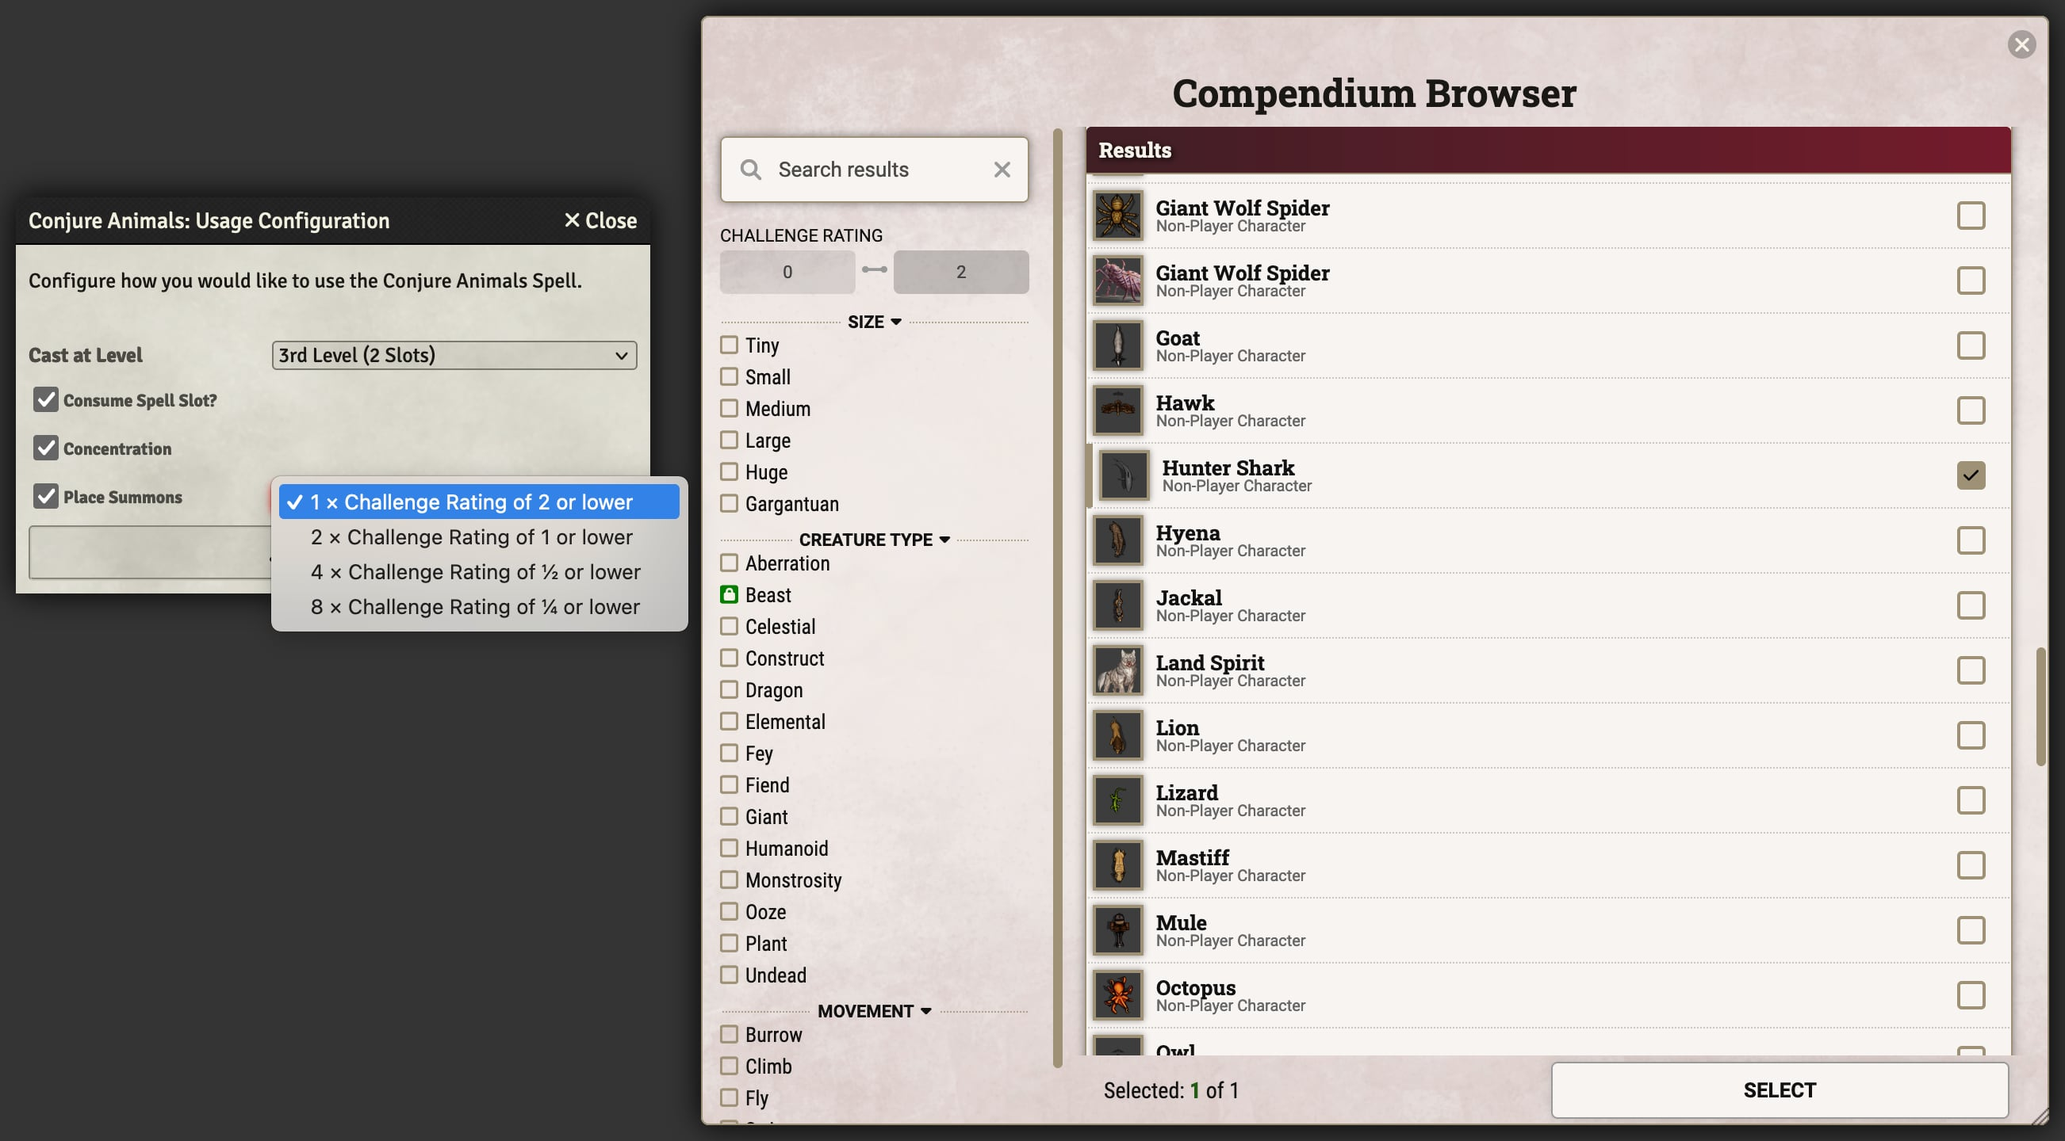
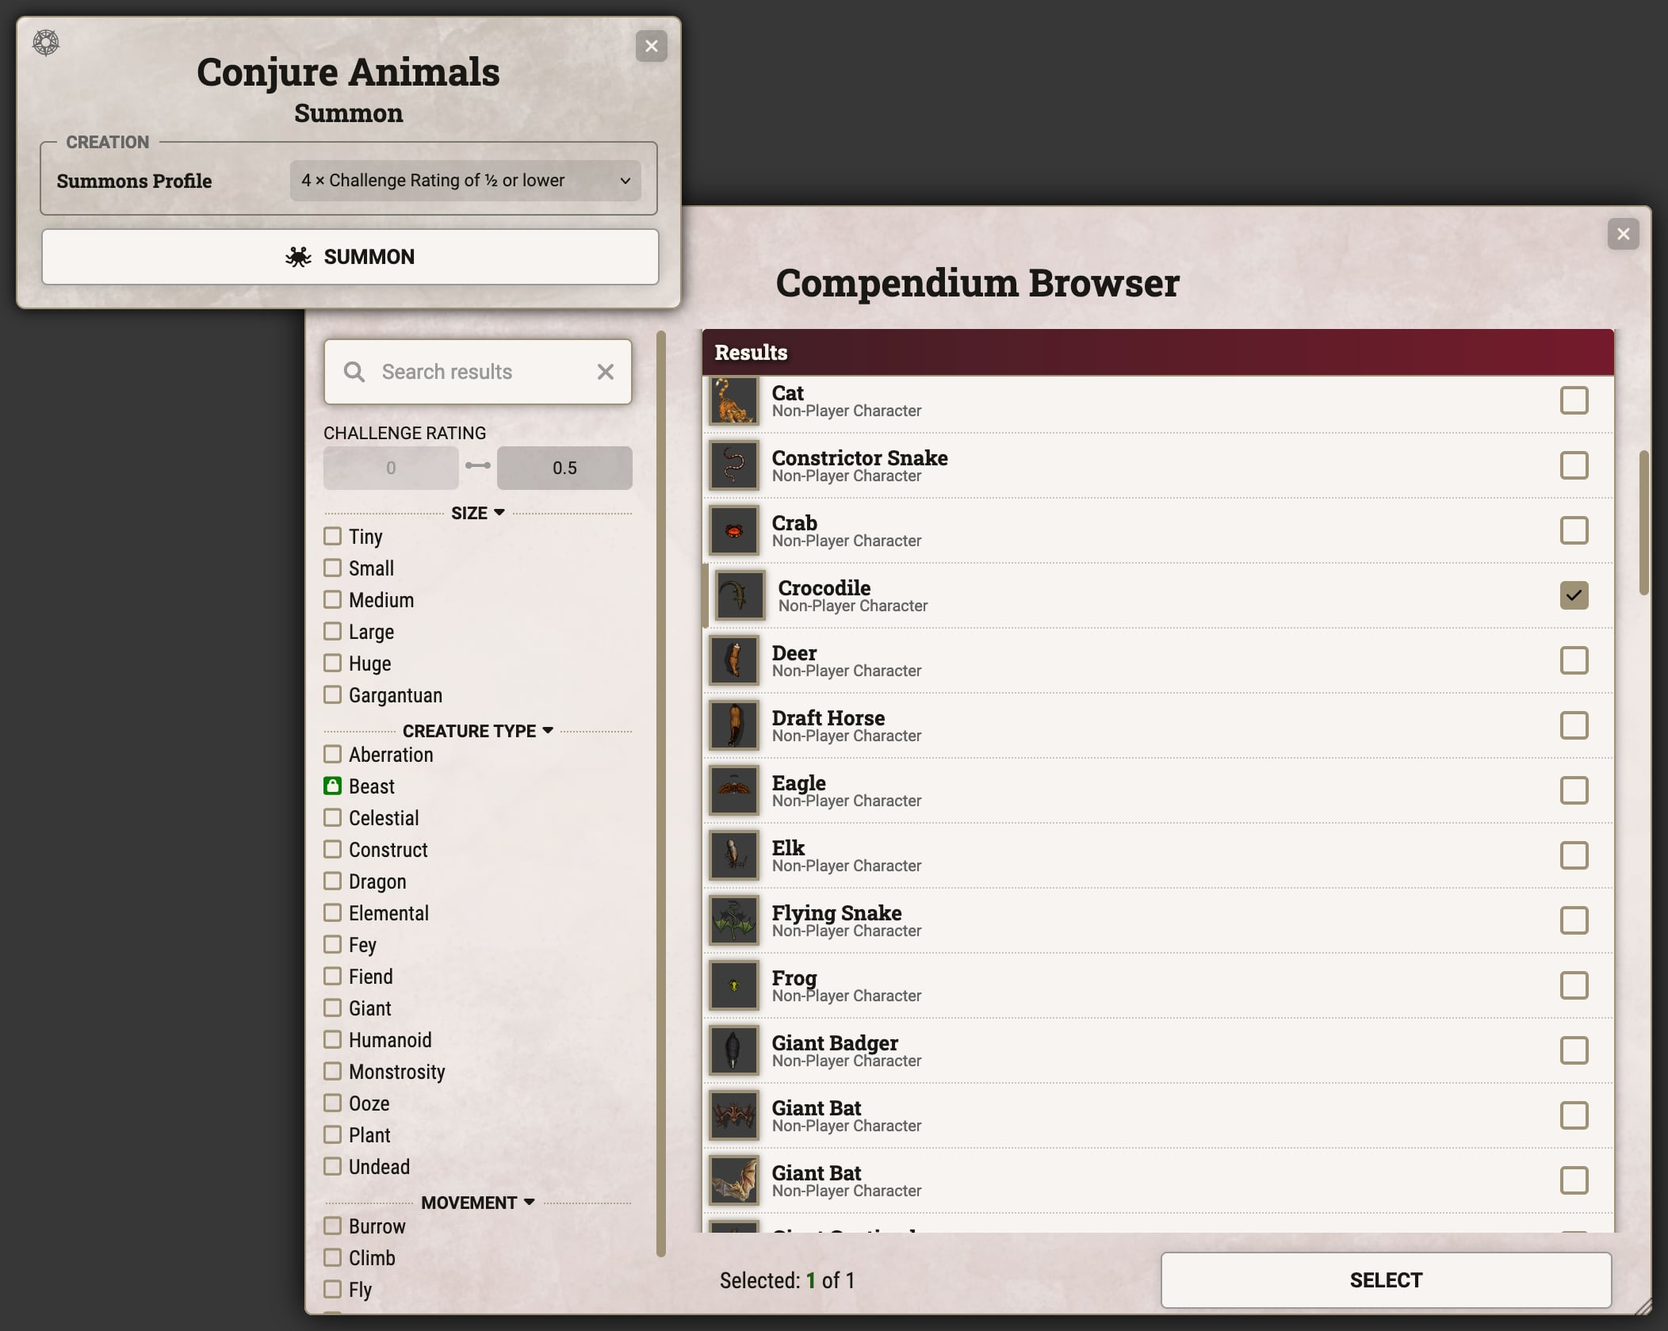
Document Summon Activity for the wiki

diff --git a/wiki/Activity-Type-Summon.md b/wiki/Activity-Type-Summon.md
@@ -1,0 +1,103 @@
+![Up to date as of 4.0.0](https://img.shields.io/static/v1?label=dnd5e&message=4.0.0&color=informational)
+
+The Summon activity is designed to automatically bring summoned creatures into your world. This allows for summoning based on a pre-determined list of creatures or allowing the player to select a creature to summon based on CR and creature type. This activity can modify the summoned creatures before they are brought into the world and includes an interface for players to place them as desired in the scene.
+
+![Summoning Summary](https://raw.githubusercontent.com/foundryvtt/dnd5e/publish-wiki/wiki/images/summoning/summoning-summary.jpg)
+
+
+## Permissions
+
+While GMs can always take advantage of summoning, this feature requires certain permissions to be set in order for it to be used by players. First the system setting "Allow Summoning" must be enabled:
+
+![Summoning Permission](https://raw.githubusercontent.com/foundryvtt/dnd5e/publish-wiki/wiki/images/summoning/summoning-permission.jpg)
+
+Then a few core Foundry permissions may need to be changed depending on how users will be using the feature.
+
+- *Create New Tokens* (**required**): Players must always have permission to create new tokens for summoning to work.
+- *Create New Actors*: Permission to create new actors must be set if summoning spells are configured to pull actors from compendiums. In order to use summoning without this then the GM can import actors and adjust the spells to pull from world actors rather than compendium actors. The player doing the summoning must have ownership permission on the world actor they are summoning.
+- *Use File Browser*: If the token being summoned uses wildcard artwork, then players must have access to the file browser so the system can correctly set the artwork.
+
+
+## Configuring Summoning
+
+After creating the Summon activity on an item the sheet will open on the Identity tab. In addition to the standard activity identity options (see the [Activities Overview](Activities.md) for more details), Summon also includes a *Summon Prompt* option. If this is unchecked, then the usage dialog will not attempt to summon by default, but summoning can always be performed from the chat card after the initial usage.
+
+![Summoning Sheet - Identity Tab](https://raw.githubusercontent.com/foundryvtt/dnd5e/publish-wiki/wiki/images/summoning/summoning-identity.jpg)
+
+### Summoning Profiles
+
+Moving over to the Summoning tab reveals the core details of the Summon activity. The Profiles sub-tab contains the configuration for the creatures that will be summoned. It begins with "Mode", which determines whether a specific set of creatures can be summoned using the **"By Direct Link"** option, or whether the player can choose the creatures using the **"By Challenge Rating and Type"** option.
+
+![Summoning Sheet - Profiles Tab, Empty](https://raw.githubusercontent.com/foundryvtt/dnd5e/publish-wiki/wiki/images/summoning/summoning-profiles-empty.jpg)
+
+Each profile can have a *Count* for how many of that profile will be summoned. This count can take formulas based on the summoning item’s roll data, allowing the count to scale based on the level at which the summoning occurs.
+
+Profiles also have a *Display Name* which affects how that profile will be displayed in the summoning dialog. Changing this name will not modify the summoned creature’s name, only how it displays in the usage prompt.
+
+#### By Direct Link
+
+In **Direct Link** mode it is easy to add creatures by dragging and dropping them from the world or a compendium only the sheet. Dropping it directly onto an existing profile will associated that creature with that profile and dropping elsewhere will create a new profile for that creature.
+
+![Summoning Sheet - Profiles Tab, Direct Link](https://raw.githubusercontent.com/foundryvtt/dnd5e/publish-wiki/wiki/images/summoning/summoning-profiles-direct-link.jpg)
+
+In the example above, the spell "Summon Beast" from *Tasha’s Cauldron of Everything*, there are three profiles created to match with the three variants of Bestial Spirit that can be created: Air, Land, and Water. Custom labels have been added to make the usage window more legible to players.
+
+#### By Challenge Rating and Type
+
+In **Challenge Rating & Type** mode the profile contains a *CR* field for setting the maximum CR of creature that can be summoned for that profile. Beneath the "Additional Settings" dropdown is the *Creature Types* field which allows for setting one or more creature types to allow for selection.
+
+![Summoning Sheet - Profiles Tab, Challenge Rating & Type](https://raw.githubusercontent.com/foundryvtt/dnd5e/publish-wiki/wiki/images/summoning/summoning-profiles-challenge-rating.jpg)
+
+In the first example above, the spell "Conjure Animals" from the Player’s Handbook, there are four profiles with descending CRs and increasing quantities (the complex formula in the count field allows for the count to double at certain spell levels). The *Display Name* field is left blank allowing the summoning to automatically generate the appropriate label.
+
+The second example shows the spell "Conjure Element", also from the Player’s Handbook. This only has a single summoning profile with a CR that scales based on the spell level (starting at CR 5 because it is a 5th level spell, and increasing CR by 1 for each level cast above 5th). The dropdown shows that that spell can only summon creatures with the "Elemental" type.
+
+#### Summoning Level
+
+When summoning occurs the process always has an associated level. For spells, this is always based on the level at which the spell is cast, but for Summon activities on other items it varies depending on whether the *Class Identifier* is populated. If provided, then the summoning level will be based on the character’s level in that specific class, otherwise it will use the character’s overall level.
+
+![Summoning Sheet - Profiles Tab, Level Limits](https://raw.githubusercontent.com/foundryvtt/dnd5e/publish-wiki/wiki/images/summoning/summoning-profiles-level-limits.jpg)
+
+This summoning level can be used to restrict certain profiles to only certain levels using the *Level Limits* fields in the "Additional Settings" dropdown. In the above example, the "Create Undead" spell from the Player’s Handbook, the level limit is set for the various undead creatures allowing only Ghouls to be summoned at 6th level, but allowing Ghasts and Wights at 8th level and Mummies at 9th level.
+
+### Changes
+
+The next tab defines changes to the creature and its items when summoned. Any fields that accept formulas will be resolved at time of summoning using `@` references from the item performing the summoning (allowing the use of `@item.level` or `@scaling` to adjust details based on the level cast) with details of the summoned creature available using `@summon` (so `@summon.attributes.hd` will give access to the HD size of a summoned NPC).
+
+![Summoning Sheet - Changes Tab](https://raw.githubusercontent.com/foundryvtt/dnd5e/publish-wiki/wiki/images/summoning/summoning-changes.jpg)
+
+#### Creature Changes
+
+The "Creature Changes" section defines changes to the creature itself:
+- *Match Proficiency*: Changes the summoned creature’s proficiency to match that of the summoner
+- *Bonus Armor Class*: Bonus to the armor class on top of what is specified in the stat block
+- *Bonus Hit Dice*: Number of hit dice to add to those on the summoned creature, based on the hit dice details inferred from the HP formula or creature size
+- *Bonus Hit Points*: Additional hit points on top of those specified in the stat block
+- *Creature Sizes* & *Creature Types*: Change the summoned creature’s size and type when summoning. If more than one option is selected, then the player will be able to choose in the summoning dialog
+
+The example above shows the "Summon Beast" spell from *Tasha’s Cauldron of Everything* which matches the caster’s proficiency, gives a bonus to armor class based on spell level, and an extra 5 hit points for each level cast above the base level.
+
+#### Item Changes
+
+the "Item Changes" section defines changes make to the items (features, attacks, and other items) on the creature:
+- *Match Attacks*: The To Hit on Attack activities will match that of the summoner
+- *Match Saves*: The Save DC on Save activities will match that of the summoner
+- *Bonus Attack Damage*, *Bonus Save Damage*, *Bonus Healing*: Additional damage when using the Attack or Save activities or additional healing when using the Heal activity
+
+In the example above the *Match Attacks* checkbox is checked to ensure the attacks rolls match that of the caster, and the *Bonus Attack Damage* contains `@item.level` giving a bonus of the spell’s level to attack damage rolls. The other fields are left unchanged because the summoned creature doesn’t have any of those.
+
+## Performing Summoning
+
+Once configuration is complete, summoning is very easy. Simply use the feature or spell as you would normally and the summoning options will appear in the usage prompt.
+
+![Summoning Prompt](https://raw.githubusercontent.com/foundryvtt/dnd5e/publish-wiki/wiki/images/summoning/summoning-prompt.jpg)
+
+The *Place Summons* checkbox controls whether a summoned creature will be placed automatically and if there is more than one summoning profile the *Summons Profile* dropdown will allow player to select what type to summon. After this screen the player's sheet will be minimized and they will be able to place the summon in the current scene.
+
+![Summoning Prompt - Compendium Browser](https://raw.githubusercontent.com/foundryvtt/dnd5e/publish-wiki/wiki/images/summoning/summoning-cr-prompt.jpg)
+
+When summoning in *Challenge Rating & Type* mode, the compendium browser will be brought up after the profile is selected allowing the player to choose which specific creature they wish to summon.
+
+![Summoning Chat Message](https://raw.githubusercontent.com/foundryvtt/dnd5e/publish-wiki/wiki/images/summoning/summoning-chat-message.jpg)
+
+If the summoned creature needs to be placed again, or the initial prompt was skipped, a "Summon" button will appear in the chat card.

diff --git a/wiki/Summoning.md b/wiki/Summoning.md
@@ -1,80 +1,1 @@
-![Up to date as of 3.3.0](https://img.shields.io/static/v1?label=dnd5e&message=3.2.0&color=informational)
-
-The D&D system includes a system for automatically bringing summoned creatures into your world. This allows you to reference a list of creatures to be summoned from a feature or spell, modify the actors before they are brought into the world, and place them where you wish in the scene.
-
-![Summoning Summary](https://raw.githubusercontent.com/foundryvtt/dnd5e/publish-wiki/wiki/images/summoning/summoning-summary.jpg)
-
-## Permissions
-
-While GMs can always take advantage of summoning, this feature requires certain permissions to be set in order for it to be used by players. First the system setting "Allow Summoning" must be enabled:
-
-![Summoning Permission](https://raw.githubusercontent.com/foundryvtt/dnd5e/publish-wiki/wiki/images/summoning/summoning-permission.jpg)
-
-Then a few core Foundry permissions may need to be changed depending on how users will be using the feature.
-
-- *Create New Tokens* (**required**): Players must always have permission to create new tokens for summoning to work.
-- *Create New Actors*: Permission to create new actors must be set if summoning spells are configured to pull actors from compendiums. In order to use summoning without this then the GM can import actors and adjust the spells to pull from world actors rather than compendium actors. The player doing the summoning must have ownership permission on the world actor they are summoning.
-- *Use File Browser*: If the token being summoned uses wildcard artwork, then players must have access to the file browser so the system can correctly set the artwork.
-
-## Configuring Summoning
-
-To set up a feature or spell to perform summoning, it first must have the "Action Type" of "Summon". This is configured on the details tab of the item beneath the header "Spell Effects" or "Feature Attack", depending on item type. Once that is selected a new summoning line will appear below. The "Configure Summons" button will allow for further configuration and the "Summon Prompt" checkbox will allow players to bypass the activation prompt when using the feature.
-
-![Item Details Tab](https://raw.githubusercontent.com/foundryvtt/dnd5e/publish-wiki/wiki/images/summoning/summoning-item-details.jpg)
-
-Clicking the "Configure Summons" button will open the summoning configuration screen. This screen contains all of the controls needed to configure what is summoned and how it is modified when summoned.
-
-![Summoning Configuration](https://raw.githubusercontent.com/foundryvtt/dnd5e/publish-wiki/wiki/images/summoning/summoning-configuration.jpg)
-
-### Summoning Profiles
-
-The top section that reads "Summoning Profiles" is where the actors that will be summoned are set up. There are two different modes that can be configured:
-- **By Direct Link**: Each profile links to a specific actor that will be summoned
-- **By Challenge Rating & Type**: Each profile specifies a maximum challenge rating and optional creature types
-
-In *Direct Link* mode it is easy to add actors here by dragging and dropping them from the world or a compendium into the app. By default the name displayed to users will match the actor name, but that can be changed by entering a custom label in the box to the right of the link. Any extra entries can be deleted using the delete button.
-
-In the example above, the spell "Summon Beast" from *Tasha's Cauldron of Everything*, there are three profiles created to match with the three variants of Bestial Spirit that can be created: Air, Land, and Water. Custom labels have been added to make the usage window more legible to players.
-
-![Summoning by Challenge Rating & Type](https://raw.githubusercontent.com/foundryvtt/dnd5e/publish-wiki/wiki/images/summoning/summoning-cr-configuration.jpg)
-
-In *Challenge Rating & Type* mode the actor drop area is replaced with a formula for the maximum CR that can be summoned for that profile. The above example of "Conjure Animals" in the SRD specifies four profiles with descending CRs and increasing quantities (with a complex formula to handle the spell's doubling at certain levels).
-
-In the other example of "Conjure Elemental" in the SRD, only a single profile is specified but its CR scales based on the level at which the spell is cast. Within the "Additional Settings" dropdown is a "Creature Types" input for restricting the selection to certain types, in this case "Elemental".
-
-![Summoning Quantity & Level](https://raw.githubusercontent.com/foundryvtt/dnd5e/publish-wiki/wiki/images/summoning/summoning-quantity-level.jpg)
-
-The field before the actor link in a profile is a formula that defines how many creatures will be summoned. This takes roll data from the summoning item so it can easily scale with spell level. Hidden behind the "Additional Settings" dropdown is the level limit, which defines the levels at which the summoning will be available. For summoning on spells this will be based on the level at which the spell is cast, and for other item types it will use the character level or class level, so long as the "Class Identifier" field is filled with a valid class.
-
-### Creature Changes
-
-The next section lists changes that will be made to the creature being summoned. The "Match Proficiency" checkbox will cause the summoned creature's proficiency to match that of the actor doing the summoning. "Bonus Armor Class", "Bonus Hit Dice", "Bonus Hit Points" are bonus formulas added on top of their respective values. Any `@` references in these formulas will be resolved at summoning time relative to the summoning item, so a value such as `@item.level` can be used to reference the level of the spell performing the summoning. They can also reference details from the summoned creature, so `@summon.attributes.hd.max` will contain the maximum number of hit dice on the summoned creature (before the bonus is applied).
-
-The "Creature Sizes" and "Creature Types" controls allow defining one or more size or type. The summoned creature will be modified to be this size or type when summoned, and if more than one option is selected then the player will be presented with a list of choices when summoning.
-
-In the example above the match proficiency box is checked because the summoned spirits have the same proficiency as their summoner. In the AC bonus field it has `@item.level`, which increases the summoned creature's AC by the level at which the spell is cast. In the HP bonus field it has `5 * (@item.level - 2)`, which adds `5` to the creature's HP for every level the spell is cast above its base level (in this case `2`).
-
-### Item Changes
-
-The final section details changes that will be made to the various items on the summoned actor. "Match Attacks" ensures that the To Hit value for any attacks made by the creature match that of the summoner, and "Match Saves" does the same thing for saving throw DCs imposed by the creature's abilities. The following fields include formulas for bonuses added to all of the creature's damage from attacks, abilities that provoke saves, and healing.
-
-In the example above both of the match attacks and saves checkboxes are checked because those values should match the summoner. In the attack damage bonus field it has the formula `@item.level` because there is a bonus to the attack damage matching the level at which the spell was cast. The save & healing bonus fields are left blank because the summoned creature doesn't have either of those.
-
-## Performing Summoning
-
-Once configuration is complete, summoning is very easy. Simply activate the feature or spell as you would normally and the summoning options will appear in the usage prompt.
-
-![Summoning Prompt](https://raw.githubusercontent.com/foundryvtt/dnd5e/publish-wiki/wiki/images/summoning/summoning-prompt.jpg)
-
-The "Place Summons" checkbox controls whether a summoned creature will be placed automatically and if there is more than one summoning profile the dropdown will allow player to select what type to summon. After this screen the player's sheet will be minimized and they will be able to place the summon in the current scene.
-
-![Summoning Prompt for CR Mode](https://raw.githubusercontent.com/foundryvtt/dnd5e/publish-wiki/wiki/images/summoning/summoning-cr-prompt.jpg)
-
-When summoning in *Challenge Rating & Type* mode, the compendium browser will be brought up after the profile is selected allowing the player to choose which specific creature they wish to summon.
-
-> [!IMPORTANT]
-> Summoning based on challenge rating can only be used when running Foundry V12 or later due to its reliance on the compendium browser. This type of summoning can still be configured in Foundry V11, but no actor will actually be summoned.
-
-![Summoning Chat Message](https://raw.githubusercontent.com/foundryvtt/dnd5e/publish-wiki/wiki/images/summoning/summoning-chat-message.jpg)
-
-If the summoned creature needs to be placed again, or the initial prompt was skipped, a "Summon" button will appear in the chat card.
+See the [Summon Activity](Activity-Type-Summon.md) for details on summoning.

diff --git a/wiki/Home.md b/wiki/Home.md
@@ -1,6 +1,16 @@
 # Welcome to the DnD5e FoundryVTT Wiki
 
 - [Active Effects Guide](Active-Effect-Guide.md)
+- [Activities Overview](Activities.md)
+  - Activity Types
+    - [Activity Type: Attack](Activity-Type-Attack.md)
+    - [Activity Type: Check](Activity-Type-Check.md)
+    - [Activity Type: Damage](Activity-Type-Damage.md)
+    - [Activity Type: Enchant](Activity-Type-Enchant.md)
+    - [Activity Type: Heal](Activity-Type-Heal.md)
+    - [Activity Type: Save](Activity-Type-Save.md)
+    - [Activity Type: Summon](Activity-Type-Summon.md)
+    - [Activity Type: Utility](Activity-Type-Utility.md)
 - [Advancement Overview](Advancement.md)
   - [Advancement User Guide](Advancement-User-Guide.md)
   - Advancement Types
@@ -20,7 +30,6 @@
 - [Hooks](Hooks.md)
 - [Journal Pages](Journal-Pages.md)
 - [Roll Formulas](Roll-Formulas.md)
-- [Summoning](Summoning.md)
 - [System HTML](System-HTML.md)
 - Tutorials
   - [Custom Classes](Custom-Class-Advancement.md)
